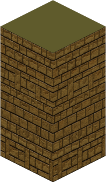
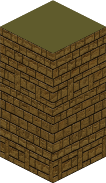
Change the coordinate changing functions to generate the matrices dynamically from the tile_size. Also, new wall texture.

diff --git a/src/game/scenes/world.cc b/src/game/scenes/world.cc
@@ -38,7 +38,7 @@ using std::tr1::bind;
 using namespace std::tr1::placeholders;
 using pyramidworks::collision::CollisionInstance;
 
-bool VerifyCheats(double delta_t) {
+bool VerifyCheats(double dt) {
     ugdk::input::InputManager *input = Engine::reference()->input_manager();
     LevelManager *level_manager = LevelManager::reference();
     World* world = level_manager->get_current_level();
@@ -76,6 +76,12 @@ bool VerifyCheats(double delta_t) {
         VIDEO_MANAGER()->SetLightSystem(lights_on = !lights_on);
     }
 
+    ugdk::graphic::Modifier* modifier = world->content_node()->modifier();
+    if(input->KeyPressed(ugdk::input::K_KP_MULTIPLY))
+        modifier->set_scale(modifier->scale() * 1.4/1.0);
+    if(input->KeyPressed(ugdk::input::K_KP_DIVIDE))
+        modifier->set_scale(modifier->scale() * 1.0/1.4);
+
     // EASTER EGG/TODO: remove before any release!
     // Also erase musics/sf2Guile456.mid
     /*if(!konami_used_) {
@@ -93,7 +99,7 @@ bool VerifyCheats(double delta_t) {
 bool UpdateOffset(double dt) {
     World* world = WORLD();
     Vector2D result = VIDEO_MANAGER()->video_size()*0.5;
-    if(world->hero()) result -= World::FromWorldCoordinates(world->hero()->world_position());
+    if(world->hero()) result -= World::FromWorldCoordinates(world->hero()->world_position()) * world->content_node()->modifier()->scale().x;
     world->content_node()->modifier()->set_offset(result);
     return true;
 }
@@ -167,15 +173,22 @@ void World::SetHero(sprite::WorldObject *hero) {
     hero_ = hero;
 }
 
+static Vector2D tile_size(106, 52);
+static double tranformation_length = tile_size.Length() / 2.0;
+
+/** Converts a vector into world linear coordinates, from a screen-coordinates based vector.
+  * For reference, the Vector (TS.x/2.0; -TS.x/2.0) converts into (1.0; 0.0) */
 Vector2D World::FromScreenLinearCoordinates(const Vector2D& screen_coords) {
-    Vector2D tx(sqrt(5.0)/4.0, -sqrt(5.0)/4.0);
-    Vector2D ty(-sqrt(5.0)/2.0, -sqrt(5.0)/2.0);
+    static Vector2D tx = Vector2D( 1.0 / tile_size.x, -1.0 / tile_size.x);
+    static Vector2D ty = Vector2D(-1.0 / tile_size.y, -1.0 / tile_size.y);
     return (tx * screen_coords.x) + (ty * screen_coords.y);
 }
 
+/** Converts a vector into screen linear coordinates, from a world-coordinates based vector.
+  * For reference, the Vector (1.0; 0.0) converts into (TS.x/2.0; -TS.x/2.0) */
 Vector2D World::FromWorldLinearCoordinates(const Vector2D& world_coords) {
-    Vector2D tx(54.0, -27.0);
-    Vector2D ty(-54.0, -27.0);
+    static Vector2D tx = Vector2D( tile_size.x / 2.0, -tile_size.y / 2.0);
+    static Vector2D ty = Vector2D(-tile_size.x / 2.0, -tile_size.y / 2.0);
     return (tx * world_coords.x) + (ty * world_coords.y);
 }
 
@@ -184,13 +197,13 @@ Vector2D World::FromWorldCoordinates(const Vector2D& world_coords) {
 }
 
 Vector2D World::FromScreenCoordinates(const Vector2D& screen_coords) {
-    Vector2D    global_screen_coords = screen_coords - WORLD()->content_node()->modifier()->offset(),
+    Vector2D    global_screen_coords = (screen_coords - WORLD()->content_node()->modifier()->offset()) / WORLD()->content_node()->modifier()->scale().x,
                 transformed = FromScreenLinearCoordinates(global_screen_coords);
-    return (transformed / 60.373835392);
+    return transformed;
 }
 
 const Vector2D World::ConvertLightRadius(double radius) {
-    Vector2D ellipse_coords = Vector2D(2, 1) * radius * 60.373835392;
+    Vector2D ellipse_coords = Vector2D(2, 1) * radius * tranformation_length;
     return ellipse_coords;
 }
     

diff --git a/data/scripts/spritesheets/wall.py b/data/scripts/spritesheets/wall.py
@@ -1,4 +1,4 @@
 import ugdk_math
 
 file = ["images/wall-simple.png"]
-fill = [ 106, 182, ugdk_math.Vector2D(53, 156) ]
+fill = [ 106, 183, ugdk_math.Vector2D(53, 156) ]
